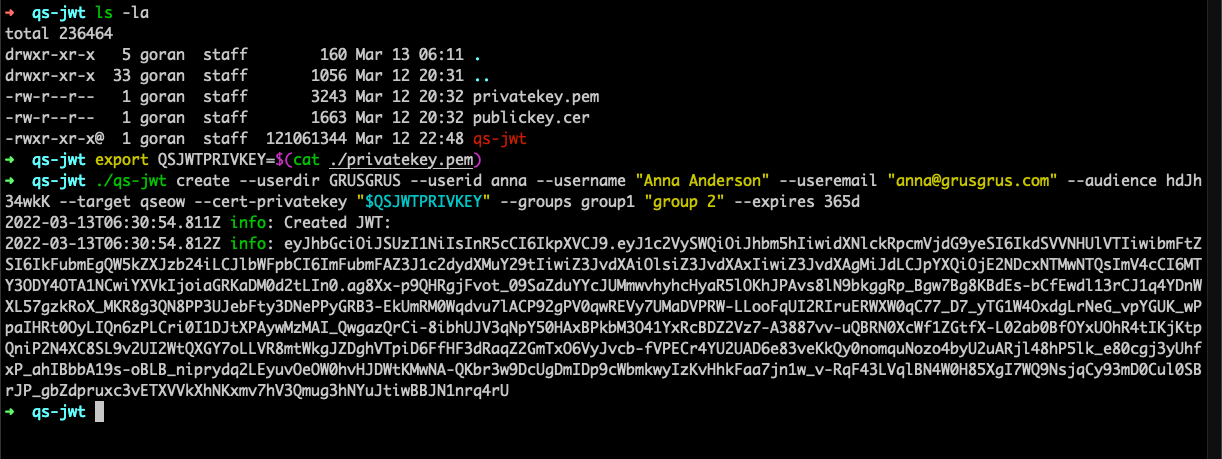
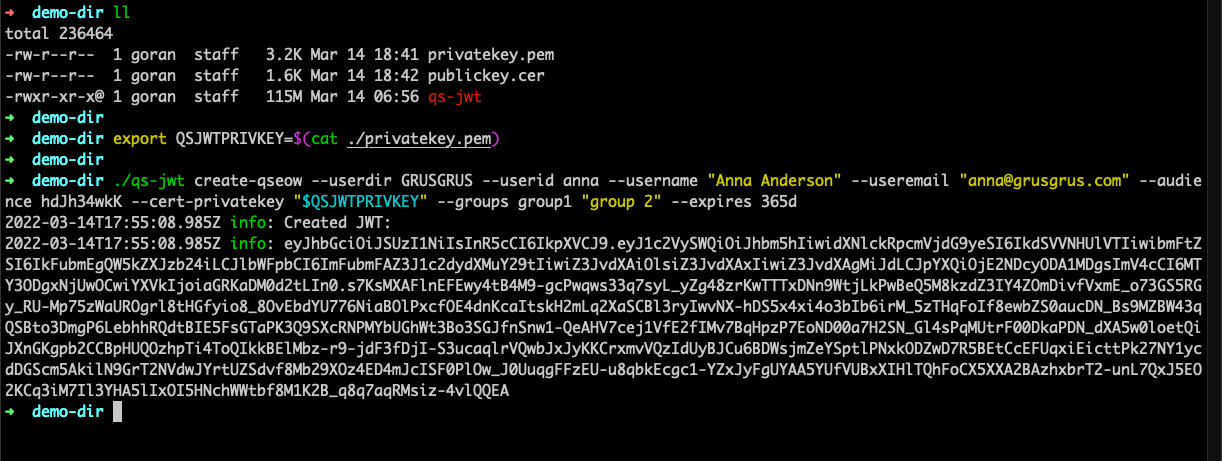
docs: Towards release..

Changed region(s): [[0.0, 0.0915, 0.9951, 0.915], [0.0311, 0.0, 0.1244, 0.061]]

diff --git a/README.md b/README.md
@@ -30,11 +30,13 @@ Those tools focus on things such as real-time monitoring of client-managed Qlik 
   - [QSEoW: Create JWTs using existing certificate and private key files](#qseow-create-jwts-using-existing-certificate-and-private-key-files)
     - [Create a certificate using openssl](#create-a-certificate-using-openssl)
     - [Running on macOS](#running-on-macos)
-    - [Running qs-jwt on Windows Server 2016](#running-qs-jwt-on-windows-server-2016)
+    - [Running on Windows Server 2016](#running-on-windows-server-2016)
   - [QSEoW: Create JWTs using existing certificate and private passed as parameters](#qseow-create-jwts-using-existing-certificate-and-private-passed-as-parameters)
     - [Running on macOS](#running-on-macos-1)
+    - [Running on Windows Server 2016](#running-on-windows-server-2016-1)
   - [QSEoW: Create new certificate and key pair, then create JWT](#qseow-create-new-certificate-and-key-pair-then-create-jwt)
     - [Running on macOS](#running-on-macos-2)
+    - [Running on Windows Server 2016](#running-on-windows-server-2016-2)
 - [Using JWTs in security rules](#using-jwts-in-security-rules)
 - [Logging](#logging)
 - [Security and isclosure](#security-and-isclosure)
@@ -87,6 +89,8 @@ Drawbacks of JWTs
 - [jwt.io](https://jwt.io) is a great starting point for anything JWT related.
 - [Blog post](https://blog.logrocket.com/jwt-authentication-best-practices/) explaining how JWTs can be used for authentication
 - qlik.dev has good articles about [using JWTs with QSEoW](https://qlik.dev/tutorials/using-qlik-sense-on-windows-repository-api-qrs-with-qlik-cli) as well as with [Qlik Sense Cloud](https://qlik.dev/tutorials/create-signed-tokens-for-jwt-authorization).
+- Qlik Sense Enterprise on Windows [help pages](https://help.qlik.com/en-US/sense-admin/February2022/Subsystems/DeployAdministerQSE/Content/Sense_DeployAdminister/QSEoW/Administer_QSEoW/Managing_QSEoW/JWT-authentication.htm) has a good description of JWT authentication within QSEoW.
+- Qlik article describing how to [set up a JWT enabled virtual proxy](https://community.qlik.com/t5/Knowledge/Qlik-Sense-How-to-set-up-JWT-authentication/ta-p/1716226) in QSEoW.
 
 ## What is qs-jwt
 
@@ -203,13 +207,16 @@ If you want to create a certificate and a private key manually that's easy too.
 On macOS it can look like this:
 
 ```bash
-➜  demo-dir ls
-qs-jwt
+➜  demo-dir ll
+total 236448
+-rwxr-xr-x@ 1 goran  staff   115M Mar 14 06:56 qs-jwt
+➜  demo-dir
 ➜  demo-dir openssl genrsa -out privatekey.pem 4096
 Generating RSA private key, 4096 bit long modulus
-...................................................................................................................................................................................................++
-.++
+.......................................................................................................................................................................................................................................................................................................................................++
+...............................................................++
 e is 65537 (0x10001)
+➜  demo-dir
 ➜  demo-dir openssl req -new -x509 -key privatekey.pem -out publickey.cer -days 1825
 You are about to be asked to enter information that will be incorporated
 into your certificate request.
@@ -225,8 +232,12 @@ Organization Name (eg, company) []:.
 Organizational Unit Name (eg, section) []:.
 Common Name (eg, fully qualified host name) []:qs-jwt
 Email Address []:.
-➜  demo-dir ls
-privatekey.pem publickey.cer  qs-jwt
+➜  demo-dir
+➜  demo-dir ll
+total 236464
+-rw-r--r--  1 goran  staff   3.2K Mar 14 07:00 privatekey.pem
+-rw-r--r--  1 goran  staff   1.6K Mar 14 07:01 publickey.cer
+-rwxr-xr-x@ 1 goran  staff   115M Mar 14 06:56 qs-jwt
 ➜  demo-dir
 ```
 
@@ -250,7 +261,16 @@ Command (assuming the qs-jwt binary is available in the current directory):
 
 ![qs-jwt running on macOS, using existing key file](./docs/img/qs-jwt-macos-1.png "qs-jwt running on macOS, using existing key file")
 
-### Running qs-jwt on Windows Server 2016
+### Running on Windows Server 2016
+
+This example uses a certificate and private key that were created using openssl, as describe above.
+
+Remember: Don't forget to unblock the downloaded qs-jwt ZIP file before unzipping it. Failing to unblock it may prevent proper execution of qs-jwt.exe.
+
+`qs-jwt.exe create-qseow --userdir GRUSGRUS --userid anna --username "Anna Anderson" --useremail "anna@grusgrus.com" --audience hdJh34wkK --cert-privatekey-file privatekey.pem --groups group1 "group 2" --expires 365d`
+
+![qs-jwt running on Windows Server 2016, using existing key file](./docs/img/qs-jwt-winsrv2016-1.png "qs-jwt running on Windows Server 2016, using existing key file")
+
 
 ## QSEoW: Create JWTs using existing certificate and private passed as parameters
 
@@ -273,9 +293,22 @@ Command (assuming the qs-jwt binary is available in the current directory):
 
 `export QSJWTPRIVKEY=$(cat ./privatekey.pem)`
 
-`./qs-jwt create-qseow --userdir GRUSGRUS --userid anna --username "Anna Anderson" --useremail "anna@grusgrus.com" --audience hdJh34wkK --cert-privatekey-file privatekey.pem --groups group1 "group 2" --expires 365d`
+`./qs-jwt create-qseow --userdir GRUSGRUS --userid anna --username "Anna Anderson" --useremail "anna@grusgrus.com" --audience hdJh34wkK --cert-privatekey "$QSJWTPRIVKEY" --groups group1 "group 2" --expires 365d`
 
 ![qs-jwt running on macOS, using existing key file](./docs/img/qs-jwt-macos-2.png "qs-jwt running on macOS, using existing key file")
+
+### Running on Windows Server 2016
+
+This example uses a certificate and private key that were created using openssl, as describe above.  
+Here powershell is used to run qs-jwt, with the private key stored in an environment variable.
+
+Remember: Don't forget to unblock the downloaded qs-jwt ZIP file before unzipping it. Failing to unblock it may prevent proper execution of qs-jwt.exe.
+
+`$QSJWTPRIVKEY = Get-Content .\privatekey.pem -Raw`
+
+`.\qs-jwt.exe create-qseow --userdir GRUSGRUS --userid anna --username 'Anna Anderson' --useremail 'anna@grusgrus.com' --audience hdJh34wkK --cert-privatekey "$QSJWTPRIVKEY" --groups group1 'group 2' --expires 365d`
+
+![qs-jwt running on Windows Server 2016, using existing key file](./docs/img/qs-jwt-winsrv2016-2.png "qs-jwt running on Windows Server 2016, using existing key file")
 
 ## QSEoW: Create new certificate and key pair, then create JWT
 
@@ -308,9 +341,26 @@ Command (assuming the qs-jwt binary is available in the current directory):
 
 ![qs-jwt running on macOS, creating new cert and key](./docs/img/qs-jwt-macos-3.png "qs-jwt running on macOS, creating new cert and key")
 
+### Running on Windows Server 2016
+
+Here cmd.exe is used to run qs-jwt, Powershell works equally well.
+
+Remember: Don't forget to unblock the downloaded qs-jwt ZIP file before unzipping it. Failing to unblock it may prevent proper execution of qs-jwt.exe.
+
+`.\qs-jwt.exe create-qseow --userdir GRUSGRUS --userid anna --username "Anna Anderson" --useremail "anna@grusgrus.com" --audience hdJh34wkK --cert-create true --cert-create-expires-days 400 --cert-file-prefix "qsjwt_" --groups group1 "group 2" --expires 365d`
+
+![qs-jwt running on Windows Server 2016, creating new cert and key](./docs/img/qs-jwt-winsrv2016-3.png "qs-jwt running on Windows Server 2016, creating new cert and key")
+
 # Using JWTs in security rules
 
-<TODO>
+Any claim embedded in the JWT can be used in QSEoW security rules.
+
+The claims are available as `user.environment.<claim name>` in the security rules.  
+You must write the security rule manually in the Conditions text box (i.e. the authoring tool doesn't work for JWT claims).
+
+A rule that gives access to a specific stream for all JWTs where the `group` claim is "group 2" can look like this:
+
+![QSEoW security rule using data from a JWT](./docs/img/qs-jwt-rule-1.png "QSEoW security rule using data from a JWT")
 
 # Logging
 
